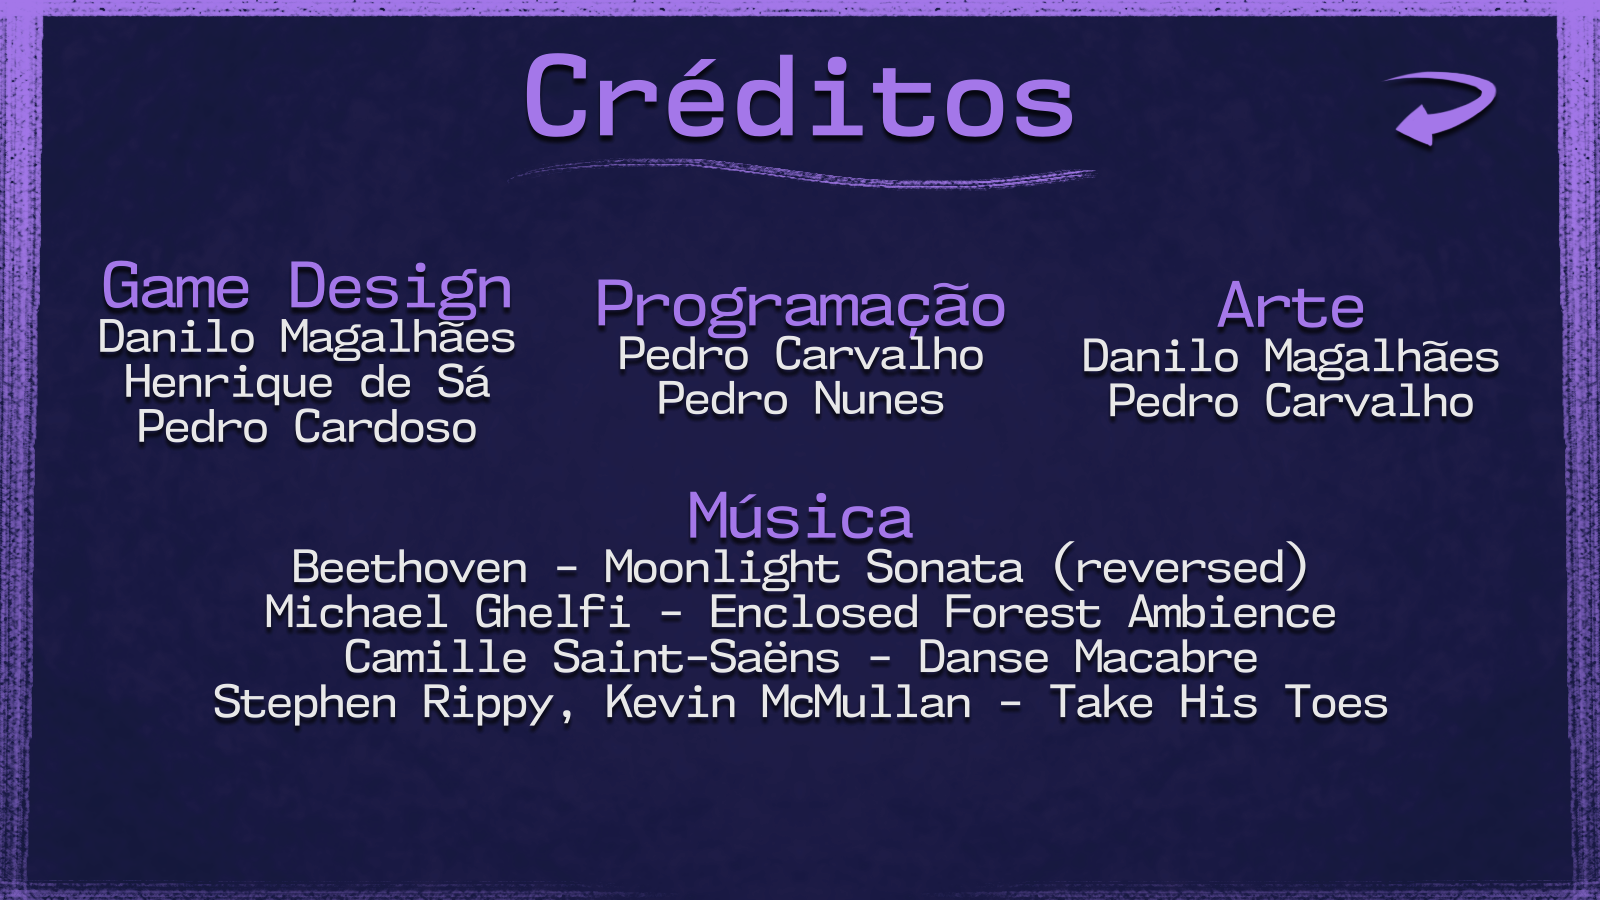
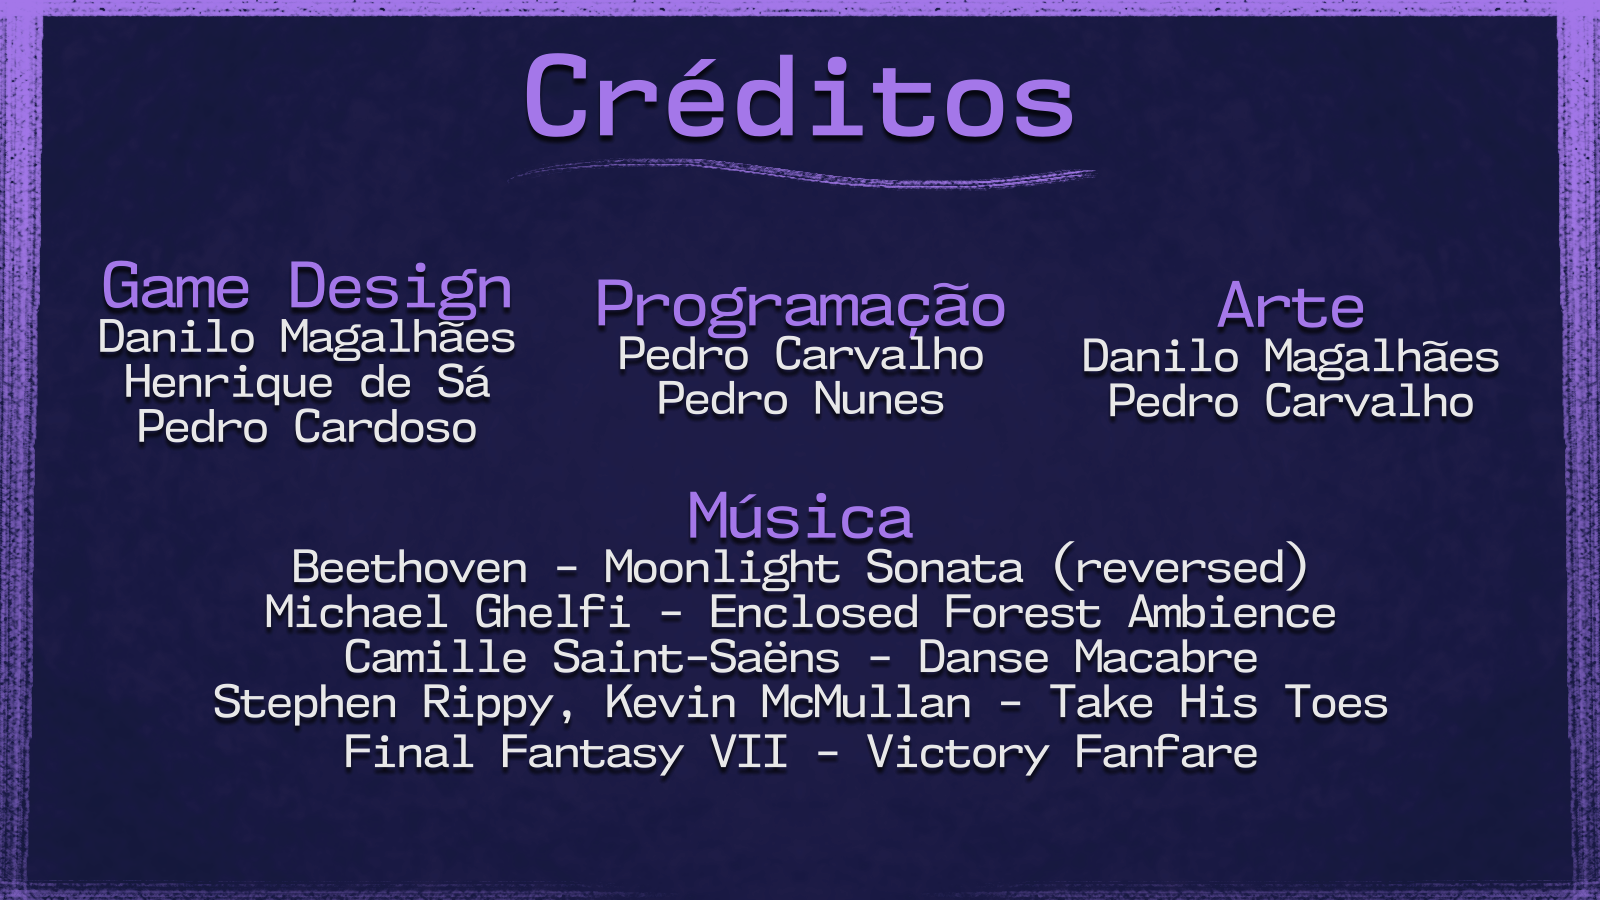
Música de vitória adicionada

Changed region(s): [[0.2188, 0.8089, 0.5, 0.8711], [0.5312, 0.8089, 0.7812, 0.8711], [0.875, 0.0622, 0.9375, 0.1867]]

diff --git a/Rest in Peace/EndState.cpp b/Rest in Peace/EndState.cpp
@@ -390,15 +390,15 @@ void EndState::Render() {
 
 void EndState::Start() {
 	LoadAssets();
-	backgroundMusic.Play();
+	backgroundMusic.Play(1);
 	StartArray();
 	started = true;
 }
 
 void EndState::Pause() {
-
+	backgroundMusic.Stop();
 }
 
 void EndState::Resume() {
-
+	backgroundMusic.Play();
 }
